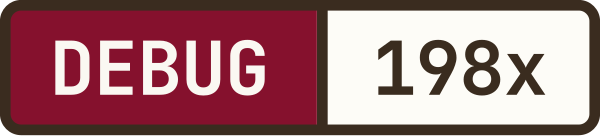
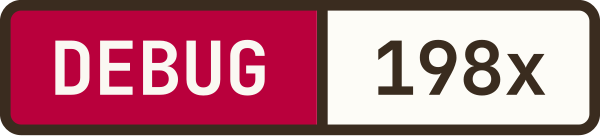
Add Format198x and Studio198x, and resync the assets with the palette
Two new projects at hue 180 and 275, derived in
198x/decisions/family-visual-identity.md 2dc06cce: no other pair of hues
separates eleven projects better, and the nine do not move because the
minimum separation is already set by Debug198x and Code198x at 24.6
degrees.

Touches the four places the nine were hard-coded -- the tokens, the tint
rules, Plate.astro's Project union and generate.py's PROJECTS map -- and
regenerates 18 assets as 22.

Fixes drift this branch's ancestor introduced. Brightening the palette
updated tokens.css and left generate.py's PROJECTS on the old L 0.40
hexes, so every committed wordmark was rendering the previous palette
while the tokens declared the new one. That is the exact failure
WORDMARK.md warns about, and it survived because nothing checks the two
against each other. All eleven now match; verified by reading each
project colour out of tokens.css and finding it in its own asset.

Section 3b's tint ceilings were re-measured across eleven before any of
this landed. Every bound is unchanged, both new colours falling inside
the existing ranges, and the worst white-on-fill is still Asm198x at
5.32:1.

diff --git a/tokens.css b/tokens.css
@@ -86,6 +86,8 @@
   --h-project-isa:   #00717b;
   --h-project-forge: #a4009e;
   --h-project-play:  #5b6c00;
+  --h-project-format: #007465;
+  --h-project-studio: #482aff;
 
   /* Type. Three faces, three jobs. All three cover Latin, Greek and Cyrillic,
    * so a heading naming a Soviet or Bulgarian machine sets in the house face
@@ -210,6 +212,8 @@
 :root[data-tint="isa"]   { --h-tint: var(--h-project-isa); }
 :root[data-tint="forge"] { --h-tint: var(--h-project-forge); }
 :root[data-tint="play"]  { --h-tint: var(--h-project-play); }
+:root[data-tint="format"] { --h-tint: var(--h-project-format); }
+:root[data-tint="studio"] { --h-tint: var(--h-project-studio); }
 
 /* One rule, both themes: --h-tint-strength and the bases each resolve to
  * whatever the active theme block set them to. */

diff --git a/wordmarks/generate.py b/wordmarks/generate.py
@@ -31,9 +31,10 @@ import json
 import pathlib
 
 PROJECTS = {
-    "code": "#792b0b", "emu": "#0d4a7d", "asm": "#0f5631",
-    "cat": "#562a8d", "build": "#60410c", "debug": "#85112d",
-    "isa": "#0f5158", "forge": "#721a6e", "play": "#424e0c",
+    "code": "#a93800", "emu": "#0066af", "asm": "#007742",
+    "cat": "#8000e0", "build": "#865900", "debug": "#b9003c",
+    "isa": "#00717b", "forge": "#a4009e", "play": "#5b6c00",
+    "format": "#007465", "studio": "#482aff",
 }
 
 _DATA = json.loads((pathlib.Path(__file__).parent / "glyphs.json").read_text())
